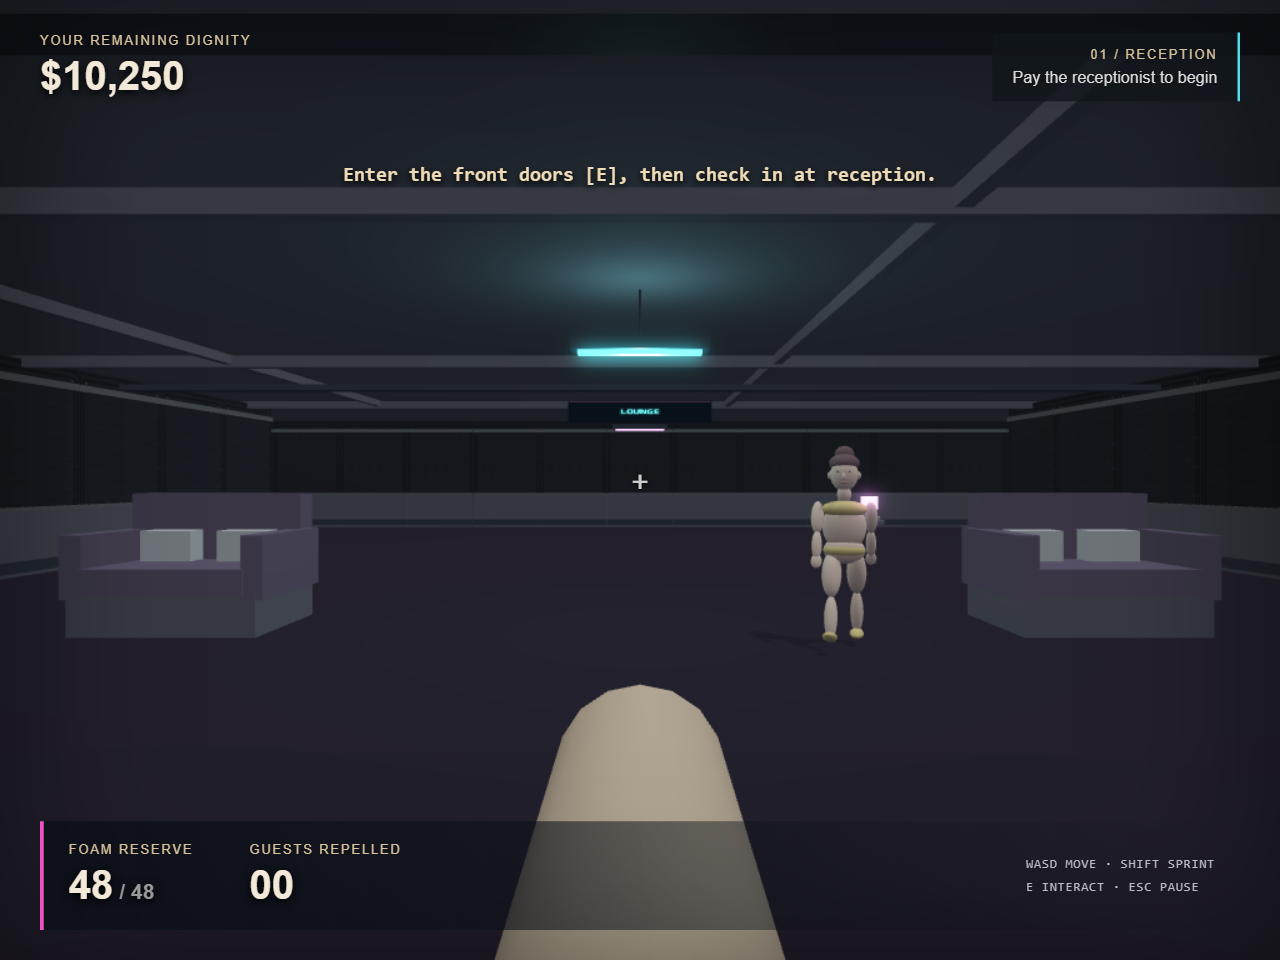
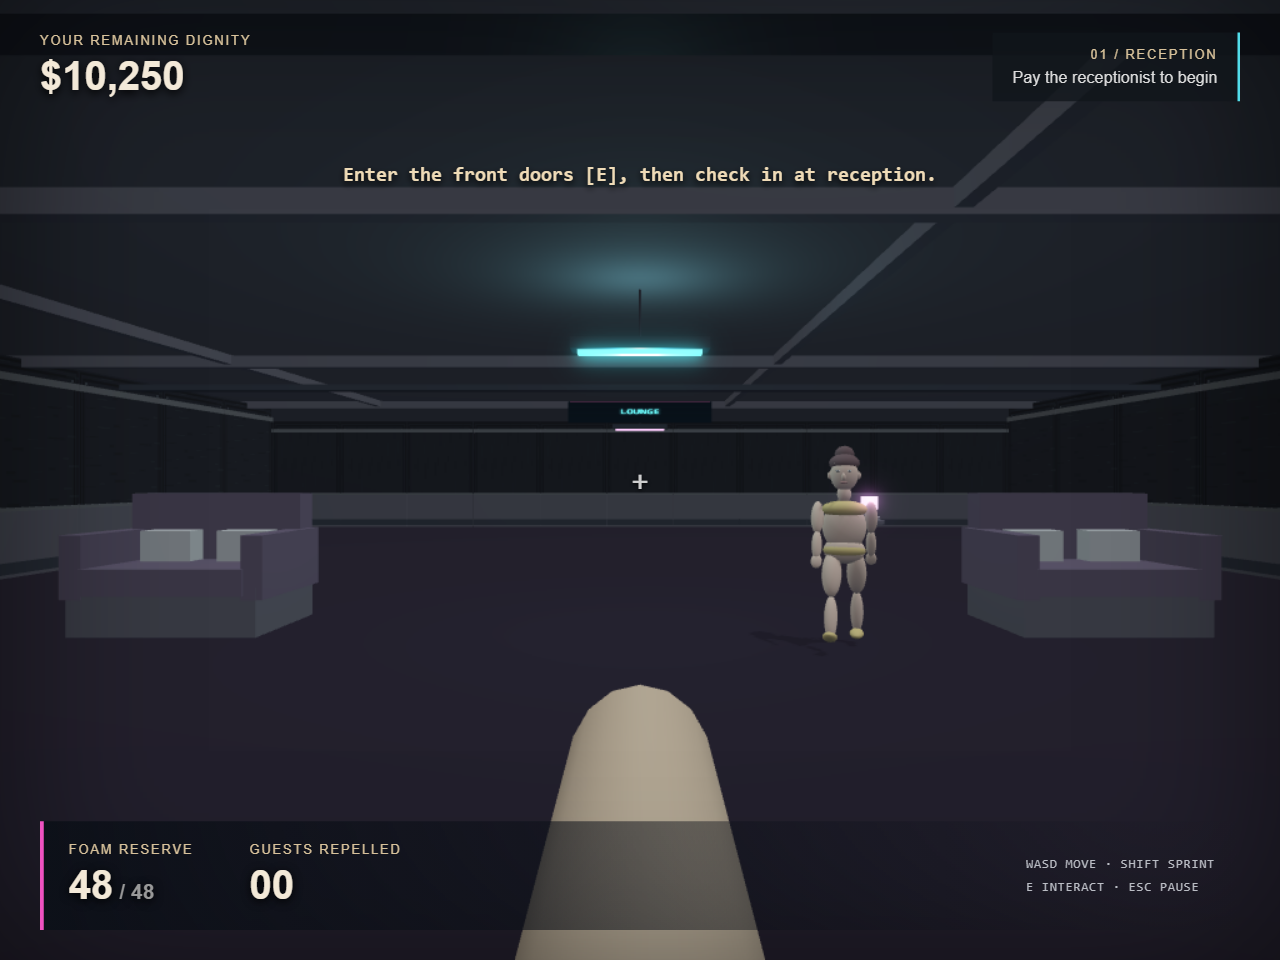
Narrow the centered Hotel Headshots blaster

Changed region(s): [[0.5312, 0.7188, 0.625, 1.0], [0.375, 0.7188, 0.4688, 1.0]]

diff --git a/hotel-headshots/scene.js b/hotel-headshots/scene.js
@@ -81,7 +81,7 @@
    if(shadow)node.getChildMeshes().forEach(m=>shadow.addShadowCaster(m));
    return {node,arms,legs,hitMeshes,guard:0,phase:style,animate(dt,speed,shield){this.phase+=dt*(speed>0?8:1.3);this.guard+=(Number(shield)-this.guard)*Math.min(1,dt*12);const g=this.guard;legs.forEach((l,i)=>{const walk=Math.sin(this.phase+i*Math.PI)*Math.min(.7,speed*.22);l.hip.rotation.x=walk;l.knee.rotation.x=Math.max(0,-walk)*.8;});arms.forEach((a,i)=>{a.shoulder.rotation.x=Math.sin(this.phase+i*Math.PI)*Math.min(.5,speed*.2)*(1-g)+g*2.5;a.shoulder.rotation.z=-a.s*g*.16;a.elbow.rotation.x=g*.5;});node.position.y=Math.abs(Math.sin(this.phase))*Math.min(.035,speed*.012);}};
   }
-  function weapon(){const n=new B.TransformNode('foam blaster',scene);n.parent=camera;n.position=V(0,-.21,.28);n.scaling=V(.72,.72,.72);const tan=mat('blaster tan','#b89a72',.65,.04);const barrel=cylinder('foam pressure barrel',[0,0,.1],.47,.17,tan,n,true);barrel.rotation.x=Math.PI/2;const nozzle=cylinder('tan nozzle',[0,0,.37],.1,.1,tan,n,true);nozzle.rotation.x=Math.PI/2;box('tan grip',[0,-.12,-.07],[.12,.24,.13],tan,n,true);for(const m of n.getChildMeshes()){m.isPickable=false;m.renderingGroupId=1;}return n;}
+  function weapon(){const n=new B.TransformNode('foam blaster',scene);n.parent=camera;n.position=V(0,-.21,.28);n.scaling=V(.62,.72,.72);const tan=mat('blaster tan','#b89a72',.65,.04);const barrel=cylinder('foam pressure barrel',[0,0,.1],.47,.17,tan,n,true);barrel.rotation.x=Math.PI/2;const nozzle=cylinder('tan nozzle',[0,0,.37],.1,.1,tan,n,true);nozzle.rotation.x=Math.PI/2;box('tan grip',[0,-.12,-.07],[.12,.24,.13],tan,n,true);for(const m of n.getChildMeshes()){m.isPickable=false;m.renderingGroupId=1;}return n;}
   return {scene,camera,shadow,person,weapon,doors,objects,curtains,refills,sign,ground,update(dt){for(const d of doors){d.angle+=(Number(d.data.open)*1.5-d.angle)*Math.min(1,dt*7);d.hinge.rotation.y=d.base+d.angle;d.mesh.isPickable=!d.data.open;}for(const o of objects)if(o.fall){o.fall=Math.min(1.7,o.fall+dt*4);o.node.rotation.z=o.fall;o.node.position.y=o.base-.08*Math.sin(o.fall);}for(const c of curtains){c.sway=Math.max(0,c.sway-dt);c.node.rotation.x=Math.sin(performance.now()*.016)*c.sway*.14;}}};
  }
  root.HotelScene={build};

diff --git a/void-runner-sw.js b/void-runner-sw.js
@@ -1,7 +1,7 @@
 /* VOID//RUNNER only. Increment BUILD when deploying changed game files (the Pages build also stamps it with the commit,
    tools/assets/build-pages.cjs, so a deploy always starts a fresh cache). Restored 2026-10-31: a merge on 2026-10-26
    (f6f582e) had reduced this file to its BUILD line, which left the game without its offline cache. */
-const BUILD='2026-11-18-hotel-headshots-1';
+const BUILD='2026-11-18-hotel-headshots-2';
 const CORE='void-runner-core-'+BUILD;
 const ASSETS='void-runner-assets-'+BUILD;
 const PAGE=new URL('./void-runner.html',self.location).pathname;

diff --git a/docs/development/HOTEL_HEADSHOTS.md b/docs/development/HOTEL_HEADSHOTS.md
@@ -4,7 +4,7 @@
 
 ## Owner's direction
 
-Five-floor, nonlethal first-person arcade shooter with money theft, evasive play, a foam blaster, defensive hit detection and local high scores. The owner subsequently specified **neon, slightly cyberpunk, not fancy**, a **centered blaster**, and **no gray or white attachments on the blaster**. Those corrections supersede the initial luxury hotel treatment. The weapon now has only a tan barrel, tan nozzle and tan grip, centered below the crosshair and brought close enough that its circular back end is out of view.
+Five-floor, nonlethal first-person arcade shooter with money theft, evasive play, a foam blaster, defensive hit detection and local high scores. The owner subsequently specified **neon, slightly cyberpunk, not fancy**, a **centered blaster**, and **no gray or white attachments on the blaster**. Those corrections supersede the initial luxury hotel treatment. The weapon now has only a tan barrel, tan nozzle and tan grip, centered below the crosshair and brought close enough that its circular back end is out of view. The owner’s subsequent width adjustment narrows it by approximately 14% without moving it.
 
 ## Play
 
@@ -26,7 +26,7 @@ Enter through the front door and pay the receptionist $250 from the initial $10,
 
 The games list has a Hotel Headshots card in root and static copies. Cabinet 1 (`arcade-cab-01`, formerly LASER MOTH) now runs `hotel-headshots/index.html` through the existing isolated arcade iframe. TURBO KELP remains unused. The cabinet has its own title, colors, poster, interaction and four-frame attract image captured from the game's actual opening screen. The existing anti-WarFlying screen is retained in place; only its obsolete `replaces: laser-moth` metadata is removed.
 
-The existing rule that every playable cabinet has a highest-score achievement and Dax holds those cabinet achievements is extended to this title. This is catalog/profile metadata only: the local leaderboard does not grant a verified District achievement. The read-only admin inventory is regenerated. District service-worker build: `2026-11-18-hotel-headshots-1`.
+The existing rule that every playable cabinet has a highest-score achievement and Dax holds those cabinet achievements is extended to this title. This is catalog/profile metadata only: the local leaderboard does not grant a verified District achievement. The read-only admin inventory is regenerated. District service-worker build: `2026-11-18-hotel-headshots-2`.
 
 No Sleeping Pod, music-player, account/save implementation, production API, merchandise, entitlement, payment or licensed-model file changed. The District HTML entrypoints remain unchanged and byte-identical.
 
